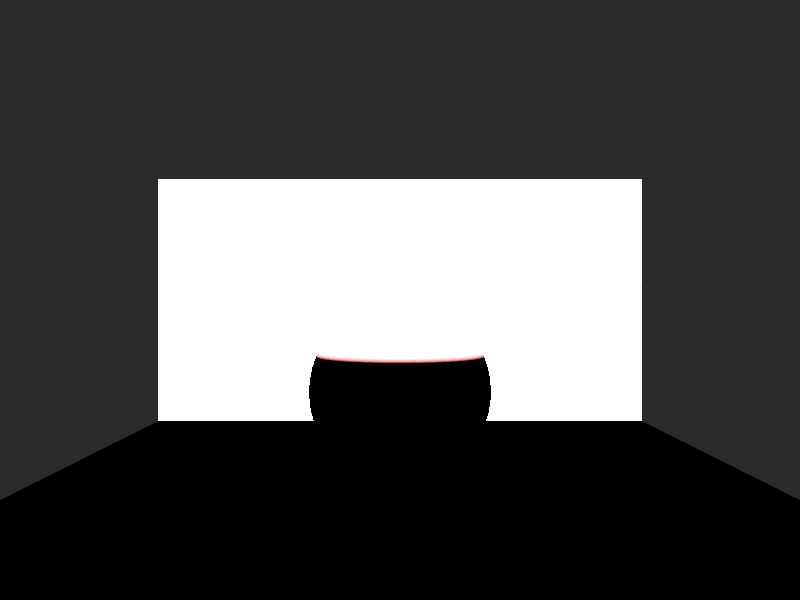
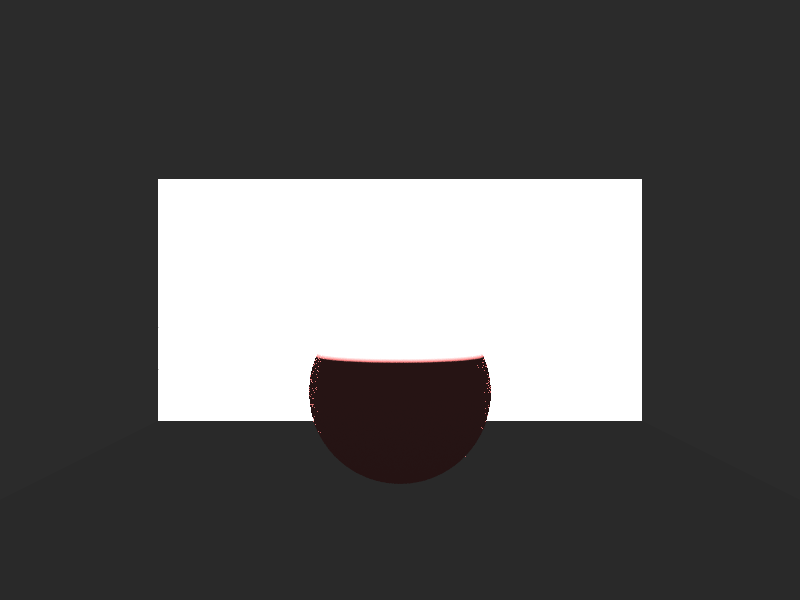
o3 mini tried to fix

Changed region(s): [[0.0, 0.6, 1.0, 1.0]]

diff --git a/src/main.rs b/src/main.rs
@@ -160,7 +160,7 @@ impl Hittable for Triangle {
         let h = ray.direction.cross(&edge2);
         let a = edge1.dot(&h);
         if a.abs() < epsilon {
-            return None; // Ray is parallel to triangle.
+            return None;
         }
         let f = 1.0 / a;
         let s = ray.origin - self.v0;
@@ -211,7 +211,6 @@ struct BVHNode {
     bbox: AABB,
 }
 
-// Custom Debug impl that prints only the bounding box.
 impl fmt::Debug for BVHNode {
     fn fmt(&self, f: &mut fmt::Formatter<'_>) -> fmt::Result {
         f.debug_struct("BVHNode").field("bbox", &self.bbox).finish()
@@ -220,7 +219,6 @@ impl fmt::Debug for BVHNode {
 
 impl BVHNode {
     fn new(mut objects: Vec<Box<dyn Hittable>>) -> Self {
-        // Choose a random axis (0 = x, 1 = y, 2 = z)
         let axis = rand::random::<usize>() % 3;
         objects.sort_by(|a, b| {
             let box_a = a.bounding_box().expect("No bounding box");
@@ -234,7 +232,6 @@ impl BVHNode {
         if n == 1 {
             let object = objects.remove(0);
             let bbox = object.bounding_box().expect("No bounding box");
-            // Duplicate the object for both children.
             BVHNode {
                 left: object.clone_box(),
                 right: object,
@@ -349,6 +346,7 @@ fn in_shadow(ray: &Ray, t_max: f32, world: &dyn Hittable) -> bool {
     world.hit(ray, 0.001, t_max).is_some()
 }
 
+// Direct illumination using next-event estimation via reservoir sampling.
 fn shade(hit: &HitRecord, light: &Light, world: &dyn Hittable, rng: &mut impl Rng) -> Vector3<f32> {
     let num_candidates = 16;
     let mut reservoir = Reservoir::<LightSample>::new();
@@ -381,25 +379,75 @@ fn shade(hit: &HitRecord, light: &Light, world: &dyn Hittable, rng: &mut impl Rn
         }
         let cos_theta = hit.normal.dot(&sample.direction).max(0.0);
         let contribution = sample.intensity * cos_theta / (sample.distance * sample.distance);
-        // Lambertian BRDF: reflectance/π
+        // Lambertian BRDF: albedo/π
         return hit.color.component_mul(&contribution) / std::f32::consts::PI;
     }
     Vector3::zeros()
 }
 
+// Cosine-weighted hemisphere sampling for indirect bounce.
+fn cosine_weighted_sample_hemisphere(normal: &Vector3<f32>, rng: &mut impl Rng) -> Vector3<f32> {
+    let r1: f32 = rng.gen();
+    let r2: f32 = rng.gen();
+    let r = r1.sqrt();
+    let phi = 2.0 * std::f32::consts::PI * r2;
+    let x = r * phi.cos();
+    let y = r * phi.sin();
+    let z = (1.0 - r1).sqrt();
+    // Build an orthonormal basis from 'normal'
+    let w = *normal;
+    let a = if w.x.abs() > 0.9 {
+        Vector3::new(0.0, 1.0, 0.0)
+    } else {
+        Vector3::new(1.0, 0.0, 0.0)
+    };
+    let v = w.cross(&a).normalize();
+    let u = w.cross(&v);
+    u * x + v * y + w * z
+}
+
+// Recursive radiance function with multiple bounces (depth 3).
+fn radiance(
+    ray: &Ray,
+    world: &dyn Hittable,
+    light: &Light,
+    rng: &mut impl Rng,
+    depth: u32,
+) -> Vector3<f32> {
+    if depth == 0 {
+        return Vector3::zeros();
+    }
+    if let Some(hit) = world.hit(ray, 0.001, std::f32::MAX) {
+        // Direct illumination via next-event estimation.
+        let direct = shade(&hit, light, world, rng);
+        // Indirect bounce: sample new direction using cosine-weighted hemisphere.
+        let new_dir = cosine_weighted_sample_hemisphere(&hit.normal, rng);
+        let new_origin = hit.point + hit.normal * 0.001;
+        let indirect = radiance(
+            &Ray {
+                origin: new_origin,
+                direction: new_dir,
+            },
+            world,
+            light,
+            rng,
+            depth - 1,
+        );
+        // For Lambertian surfaces the Monte Carlo estimator gives indirect = albedo * L_indirect.
+        return direct + hit.color.component_mul(&indirect);
+    } else {
+        // Background radiance (ambient).
+        return Vector3::new(0.02, 0.02, 0.02);
+    }
+}
+
 // -------------------------
 // Reference Scene (Physically Realistic)
 // -------------------------
-// All dimensions are in meters and light intensity in W/sr.
-// This scene consists of:
-//  • A floor (two triangles)
-//  • A back wall (two triangles)
-//  • A diffuse sphere (object)
-//  • A point light located above the sphere.
 fn reference_scene() -> Vec<Box<dyn Hittable>> {
     let mut objects: Vec<Box<dyn Hittable>> = Vec::new();
 
-    // Floor: a rectangle from (-2,0,-5) to (2,0,0)
+    // Floor: rectangle from (-2,0,-5) to (2,0,0) split into two triangles.
     let floor_color = Vector3::new(0.9, 0.9, 0.9);
     objects.push(Box::new(Triangle {
         v0: Vector3::new(-2.0, 0.0, -5.0),
@@ -414,7 +462,7 @@ fn reference_scene() -> Vec<Box<dyn Hittable>> {
         color: floor_color,
     }));
 
-    // Back wall: vertical plane at z = -5, from (-2,0,-5) to (2,2,-5)
+    // Back wall: vertical plane at z = -5 (from (-2,0,-5) to (2,2,-5)).
     let wall_color = Vector3::new(0.9, 0.9, 0.9);
     objects.push(Box::new(Triangle {
         v0: Vector3::new(-2.0, 0.0, -5.0),
@@ -429,8 +477,8 @@ fn reference_scene() -> Vec<Box<dyn Hittable>> {
         color: wall_color,
     }));
 
-    // Diffuse sphere: center (0,0.5,-3) with radius 0.5
-    let sphere_color = Vector3::new(0.8, 0.2, 0.2); // red-ish
+    // Diffuse sphere: center (0,0.5,-3) with radius 0.5.
+    let sphere_color = Vector3::new(0.8, 0.2, 0.2);
     objects.push(Box::new(Sphere {
         center: Vector3::new(0.0, 0.5, -3.0),
         radius: 0.5,
@@ -448,19 +496,17 @@ fn main() {
     let height = 600;
     let mut img = RgbImage::new(width, height);
 
-    // Use the reference scene with physically realistic geometry.
+    // Use the reference scene.
     let objects = reference_scene();
     let world = BVHNode::new(objects);
 
-    // Define a point light.
-    // In physical units: position in meters, intensity in W/sr.
+    // Define a point light (physical units: meters, W/sr).
     let light = Light {
         position: Vector3::new(0.0, 1.8, -3.0),
-        intensity: Vector3::new(500.0, 500.0, 500.0), // e.g., a 500 W/sr source
+        intensity: Vector3::new(500.0, 500.0, 500.0),
     };
 
     // Camera parameters.
-    // Place camera so that it sees the reference scene.
     let camera_pos = Vector3::new(0.0, 1.0, 1.0);
     let fov_deg: f32 = 45.0;
     let scale = (fov_deg.to_radians() * 0.5).tan();
@@ -468,34 +514,25 @@ fn main() {
 
     let mut rng = StdRng::from_entropy();
     let samples_per_pixel = 16;
+    let max_depth = 3;
 
     // Render loop.
     for j in 0..height {
         for i in 0..width {
             let mut pixel_color = Vector3::zeros();
             for _ in 0..samples_per_pixel {
-                // Jitter for anti-aliasing.
                 let u = (i as f32 + rng.gen::<f32>()) / width as f32;
                 let v = (j as f32 + rng.gen::<f32>()) / height as f32;
                 let x = (2.0 * u - 1.0) * aspect_ratio * scale;
                 let y = (1.0 - 2.0 * v) * scale;
-                // Compute ray direction in camera space.
-                // Here we assume a simple pinhole camera looking toward -z.
                 let ray_dir = Vector3::new(x, y, -1.0).normalize();
                 let ray = Ray {
                     origin: camera_pos,
                     direction: ray_dir,
                 };
-                if let Some(hit) = world.hit(&ray, 0.001, std::f32::MAX) {
-                    let sample_color = shade(&hit, &light, &world, &mut rng);
-                    pixel_color += sample_color;
-                } else {
-                    // Background: use a low-level ambient radiance.
-                    pixel_color += Vector3::new(0.02, 0.02, 0.02);
-                }
+                pixel_color += radiance(&ray, &world, &light, &mut rng, max_depth);
             }
             pixel_color /= samples_per_pixel as f32;
-            // Gamma correction.
             let gamma = 2.2;
             let r = pixel_color.x.max(0.0).min(1.0).powf(1.0 / gamma);
             let g = pixel_color.y.max(0.0).min(1.0).powf(1.0 / gamma);
